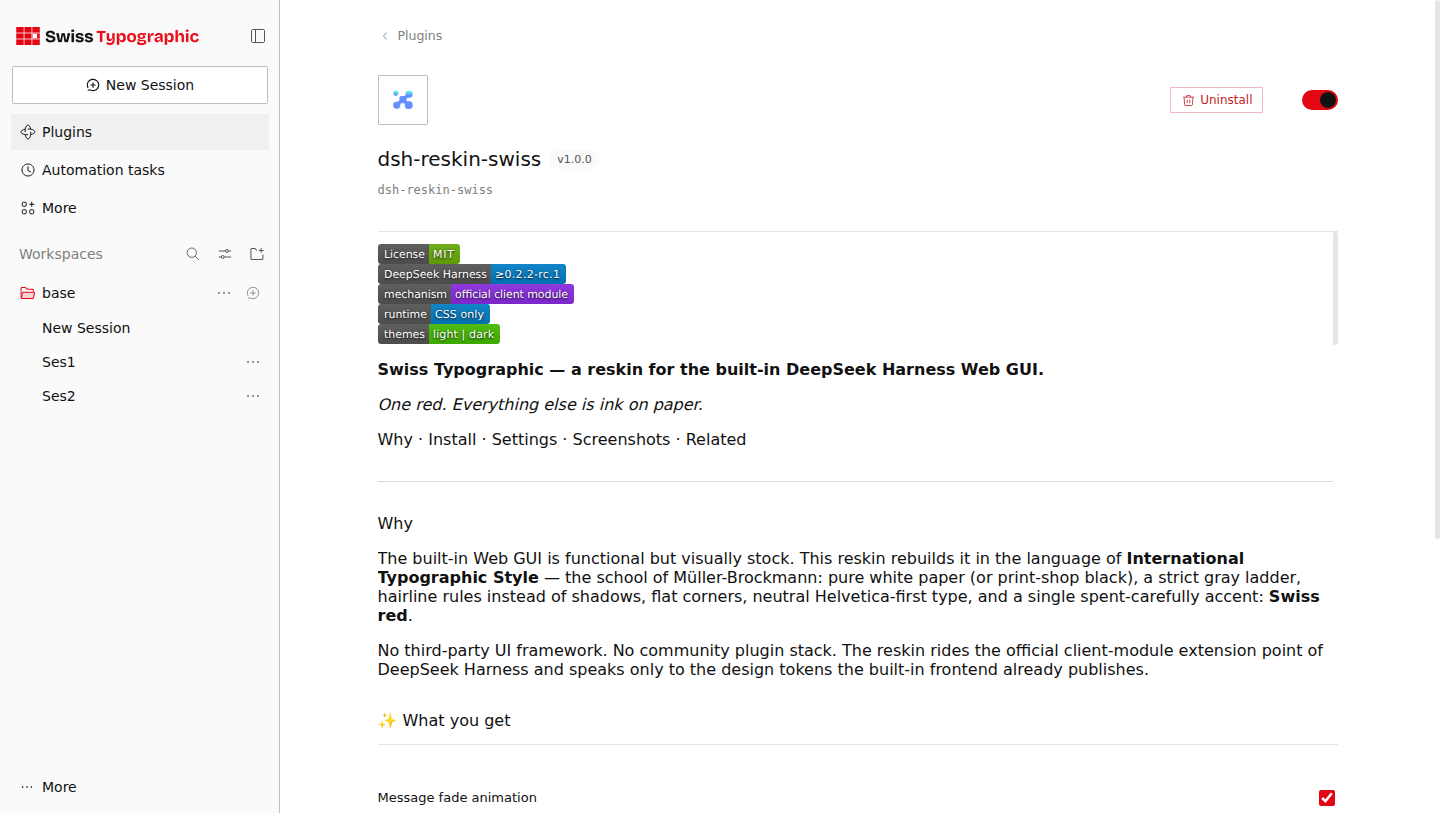
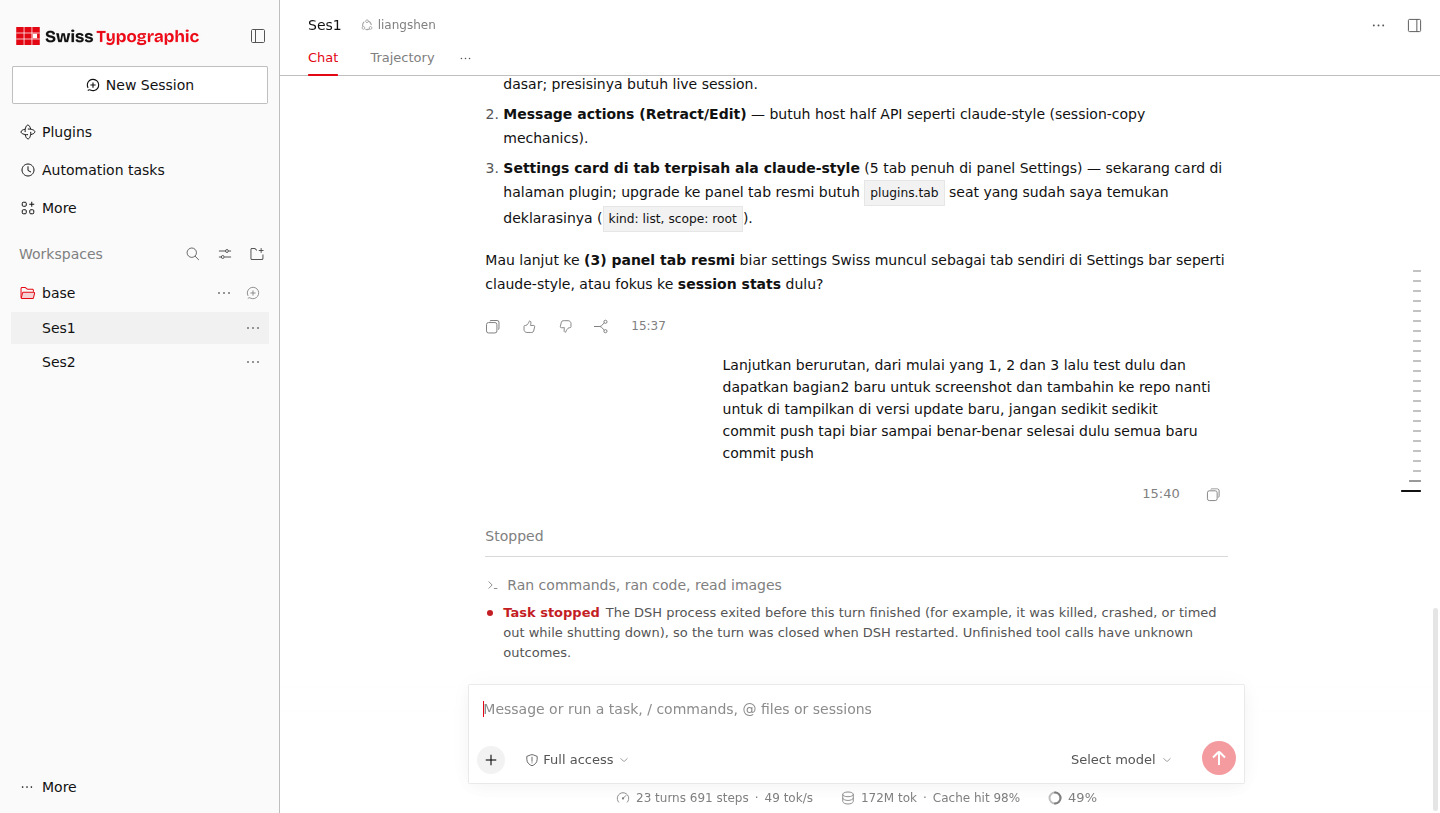
feat(composer): header controls + context meter restyle, screenshots
- model picker & access mode: flat hairline buttons, red shield for full access
- Chat/Trajectory tabs: square cells, red active underline
- context meter: precision gauge (2px strokes, ink track, red fill), tabular
  numerals; stats popover flat with hairline rules
- meter-off and mascot-off config blocks
- README: context meter screenshot, feature list extended

All verified live on a pure-stock profile in a real session (23 turns),
light + dark.

diff --git a/src/swiss.css.ts b/src/swiss.css.ts
@@ -1,1 +1,1 @@
-export const css = "/* Applied by dsh-reskin-swiss client module. html[data-reskin-swiss] is stamped on boot. */\n/**\n * Swiss Typographic — stock DSH reskin stylesheet.\n * Remaps the official --dsw-alias-* semantic tokens of the built-in web frontend.\n * Scoped: light values on html[data-reskin-swiss] body, dark on html[data-reskin-swiss] body[data-ds-dark-theme].\n */\n\n/* ---- Type ------------------------------------------------------------------\n * Helvetica Neue is the canonical Swiss face; it ships on macOS. Inter is the\n * self-contained modern stand-in with near-identical neutrality. No serif,\n * no decorative face anywhere: typography does the hierarchy, never ornament.\n * -------------------------------------------------------------------------- */\nhtml[data-reskin-swiss] body {\n  --st-sans: 'Helvetica Neue', 'Inter', 'Noto Sans CJK SC', 'PingFang SC', 'Microsoft YaHei', -apple-system, 'Segoe UI', Arial, sans-serif;\n  --st-mono: 'SF Mono', 'JetBrains Mono', 'Noto Sans Mono CJK SC', ui-monospace, Menlo, Consolas, monospace;\n  --st-red: #E30613;\n  --st-red-press: #B80510;\n  --st-ink: #111111;\n}\n\n/* ============================================================================\n * LIGHT — paper\n * ========================================================================== */\nhtml[data-reskin-swiss] body {\n  /* surfaces: pure canvas, then a strict gray ladder */\n  --dsw-alias-bg-base: #ffffff;\n  --dsw-alias-bg-layer-1: #fafafa;\n  --dsw-alias-bg-layer-2: #f2f2f2;\n  --dsw-alias-bg-layer-3: #e8e8e8;\n  --dsw-alias-bg-layer-4: #dcdcdc;\n  --dsw-alias-bg-module-platform: #fafafa;\n  --dsw-alias-bg-skeleton: #1111110a;\n\n  /* masks: ink, scaled */\n  --dsw-alias-bg-mask-1: #1111111f;\n  --dsw-alias-bg-mask-2: #11111133;\n  --dsw-alias-bg-mask-3: #11111166;\n\n  /* borders: the grid. hairlines, never shadows-that-look-like-borders */\n  --dsw-alias-border-l1: #e6e6e6;\n  --dsw-alias-border-l2: #d9d9d9;\n  --dsw-alias-border-l2-darkmode-thin: #d9d9d9;\n  --dsw-alias-border-l3: #bfbfbf;\n  --dsw-alias-border-l4: #999999;\n\n  /* labels: near-black ink, quiet grays */\n  --dsw-alias-label-primary: #111111;\n  --dsw-alias-label-primary-bluish: #111111;\n  --dsw-alias-label-primary-dimmed: #3d3d3d;\n  --dsw-alias-label-primary-foreground: #111111;\n  --dsw-alias-label-primary-inverted: #ffffff;\n  --dsw-alias-label-secondary: #555555;\n  --dsw-alias-label-tertiary: #808080;\n  --dsw-alias-label-caption: #8c8c8c;\n  --dsw-alias-label-dimmed: #a6a6a6;\n\n  /* brand: the one red */\n  --dsw-alias-brand-primary: #E30613;\n  --dsw-alias-brand-text: #111111;\n\n  /* buttons: flat rectangles, red or ink */\n  --dsw-alias-button-primary-fill: #E30613;\n  --dsw-alias-button-primary-hover: #B80510;\n  --dsw-alias-button-contrast-fill: #111111;\n  --dsw-alias-button-ghost-active-fill: #e8e8e8;\n  --dsw-alias-button-ghost-active-hover: #dcdcdc;\n  --dsw-alias-button-ghost-active-border: #1111114d;\n\n  /* interactive */\n  --dsw-alias-interactive-bg-hover: #1111110a;\n  --dsw-alias-interactive-bg-active: #11111114;\n  --dsw-alias-interactive-bg-hover-accent: #E3061314;\n  --dsw-alias-interactive-bg-hover-danger: #E306131f;\n\n  /* markdown: quiet grays, no tinted code blocks */\n  --dsw-alias-markdown-code-block: #f7f7f7;\n  --dsw-alias-markdown-code-block-banner: #f2f2f2;\n  --dsw-alias-markdown-inline-code: #f2f2f2;\n  --dsw-alias-markdown-tag: #f2f2f2;\n\n  /* state colors: functional, desaturated where possible; red belongs to brand */\n  --dsw-alias-state-error-primary: #C41E25;\n  --dsw-alias-state-warn-primary: #B8860B;\n  --dsw-alias-state-success-primary: #2E7D32;\n  --dsw-alias-state-business-primary: #E30613;\n\n  /* shell anchors */\n  --dsw-specific-sidebar-fill: #fafafa;\n  --dsw-specific-sidebar-nav-item-hover: #1111110a;\n  --dsw-specific-sidebar-nav-item-active: #e8e8e8;\n  --dsw-specific-sidebar-nav-item-active-accent: #E30613;\n  --dsw-specific-input-major: #ffffff;\n  --dsw-specific-menu: #ffffff;\n  --dsw-specific-bubble: #ffffff;\n  --dsw-specific-selector: #f2f2f2;\n  --dsw-specific-tip: #e8e8e8;\n\n  /* overlays */\n  --dsw-alias-tooltip-bg: #111111;\n  --dsw-alias-tooltip-key-bg: #11111133;\n  --dsw-alias-toast-bg: #111111;\n  --dsw-hovercard-bg: #ffffff;\n  --dsw-menu-surface-fill: #ffffff;\n\n  /* focus: the red ring is the accessibility voice of the accent */\n  --dsw-focus-ring-color: #E30613;\n  --dsw-focus-ring-width: 2px;\n\n  /* elevation: hairline + barely-there shadow; flatness is the style */\n  --dsw-elevation-stroke-color: #e6e6e6;\n  --dsw-shadow-lv1: 0 0 0 0.5px #e6e6e6;\n  --dsw-shadow-lv2: 0 1px 2px #1111110d;\n  --dsw-shadow-lv3: 0 4px 16px #1111111a;\n  --dsw-mask-blur: blur(0px);\n\n  /* radius ladder: pressed flat. 0 for chips/tags, 2px max anywhere */\n  --dsw-radius-xs: 0px;\n  --dsw-radius-sm: 0px;\n  --dsw-radius-md: 2px;\n  --dsw-radius-lg: 2px;\n  --dsw-radius-xl: 2px;\n  --dsw-radius-panel: 0px;\n\n  /* typography */\n  --dsw-font-family: var(--st-sans);\n  --dsw-font-markdown-base: var(--st-sans);\n  --dsw-font-markdown-base-strong: var(--st-sans);\n  --dsw-font-markdown-code: var(--st-mono);\n  --dsw-font-markdown-code-block: var(--st-mono);\n  --dsw-font-markdown-code-font-family: var(--st-mono);\n  --dsw-font-markdown-h1: var(--st-sans);\n  --dsw-font-markdown-h2: var(--st-sans);\n  --dsw-font-markdown-h3: var(--st-sans);\n  --dsw-alias-link: #111111;\n\n  /* scrollbars: hairline ink */\n  --dsw-alias-scrollbar-bg-l2: #1111111f;\n  --dsw-alias-scrollbar-hover-l2: #1111113d;\n}\n\n/* ============================================================================\n * DARK — print-shop black. Same red, same grid, ink inverted.\n * ========================================================================== */\n/* official info-fill buttons (send arrow etc.) route through --dsw-static-deepseek-500;\n   remap the alias instead so the red takes over */\nhtml[data-reskin-swiss] body {\n  --dsw-alias-button-info-fill: #E30613;\n  --dsw-alias-state-business-tertiary: #E3061314;\n  --dsw-alias-state-idle-primary: #808080;\n}\n\nhtml[data-reskin-swiss] body[data-ds-dark-theme] {\n  /* surfaces */\n  --dsw-alias-bg-base: #111111;\n  --dsw-alias-bg-layer-1: #171717;\n  --dsw-alias-bg-layer-2: #1f1f1f;\n  --dsw-alias-bg-layer-3: #292929;\n  --dsw-alias-bg-layer-4: #333333;\n  --dsw-alias-bg-module-platform: #171717;\n  --dsw-alias-bg-skeleton: #ffffff0a;\n\n  --dsw-alias-bg-mask-1: #00000040;\n  --dsw-alias-bg-mask-2: #00000066;\n  --dsw-alias-bg-mask-3: #000000a6;\n\n  /* borders: the grid in reverse, gray on black */\n  --dsw-alias-border-l1: #262626;\n  --dsw-alias-border-l2: #333333;\n  --dsw-alias-border-l2-darkmode-thin: #333333;\n  --dsw-alias-border-l3: #4d4d4d;\n  --dsw-alias-border-l4: #737373;\n\n  /* labels */\n  --dsw-alias-label-primary: #f5f5f5;\n  --dsw-alias-label-primary-bluish: #f5f5f5;\n  --dsw-alias-label-primary-dimmed: #d4d4d4;\n  --dsw-alias-label-primary-foreground: #111111;\n  --dsw-alias-label-primary-inverted: #111111;\n  --dsw-alias-label-secondary: #a3a3a3;\n  --dsw-alias-label-tertiary: #737373;\n  --dsw-alias-label-caption: #666666;\n  --dsw-alias-label-dimmed: #4d4d4d;\n\n  /* brand: same red, lifted one step for contrast on black */\n  --dsw-alias-brand-primary: #FF2A1F;\n  --dsw-alias-brand-text: #f5f5f5;\n\n  /* buttons */\n  --dsw-alias-button-primary-fill: #FF2A1F;\n  --dsw-alias-button-primary-hover: #E30613;\n  --dsw-alias-button-contrast-fill: #f5f5f5;\n  --dsw-alias-button-ghost-active-fill: #292929;\n  --dsw-alias-button-ghost-active-hover: #333333;\n  --dsw-alias-button-ghost-active-border: #ffffff4d;\n\n  /* interactive */\n  --dsw-alias-interactive-bg-hover: #ffffff0d;\n  --dsw-alias-interactive-bg-active: #ffffff17;\n  --dsw-alias-interactive-bg-hover-accent: #FF2A1F1f;\n  --dsw-alias-interactive-bg-hover-danger: #FF2A1F2e;\n\n  /* markdown */\n  --dsw-alias-markdown-code-block: #1a1a1a;\n  --dsw-alias-markdown-code-block-banner: #1f1f1f;\n  --dsw-alias-markdown-inline-code: #1f1f1f;\n  --dsw-alias-markdown-tag: #1f1f1f;\n\n  /* state */\n  --dsw-alias-state-error-primary: #FF4A42;\n  --dsw-alias-state-warn-primary: #E0A63F;\n  --dsw-alias-state-success-primary: #4CAF6D;\n  --dsw-alias-state-business-primary: #FF2A1F;\n\n  /* shell anchors */\n  --dsw-specific-sidebar-fill: #171717;\n  --dsw-specific-sidebar-nav-item-hover: #ffffff0d;\n  --dsw-specific-sidebar-nav-item-active: #292929;\n  --dsw-specific-sidebar-nav-item-active-accent: #FF2A1F;\n  --dsw-specific-input-major: #1a1a1a;\n  --dsw-specific-menu: #1a1a1a;\n  --dsw-specific-bubble: #171717;\n  --dsw-specific-selector: #1f1f1f;\n  --dsw-specific-tip: #292929;\n\n  /* overlays */\n  --dsw-alias-tooltip-bg: #f5f5f5;\n  --dsw-alias-tooltip-fg: #111111;\n  --dsw-alias-tooltip-key-bg: #ffffff33;\n  --dsw-alias-toast-bg: #f5f5f5;\n  --dsw-alias-toast-label: #111111;\n  --dsw-hovercard-bg: #1a1a1a;\n  --dsw-menu-surface-fill: #1a1a1a;\n\n  --dsw-focus-ring-color: #FF2A1F;\n\n  --dsw-elevation-stroke-color: #262626;\n  --dsw-shadow-lv1: 0 0 0 0.5px #262626;\n  --dsw-shadow-lv2: 0 1px 2px #00000059;\n  --dsw-shadow-lv3: 0 4px 16px #00000080;\n\n  --dsw-alias-scrollbar-bg-l2: #ffffff1f;\n  --dsw-alias-scrollbar-hover-l2: #ffffff3d;\n}\n\n\n/* ============================================================================\n * Layer 2 — restrained motion & state (frontend-design guidance: one\n * orchestrated moment, motion that answers an action, nothing scattered).\n * ========================================================================== */\n\n/* Message enter: a single quiet fade — no slide-up cascade, no stagger.\n   Applies once per inserted message row; the animation is 160ms, the Swiss\n   grid does the rest. Uses the semantic part from the contract. */\n@keyframes reskin-swiss-message-enter {\n  from { opacity: 0; }\n  to   { opacity: 1; }\n}\nhtml[data-reskin-swiss] body [data-dsh-surface=\"conversation\"] [data-dsh-part=\"message-row\"] {\n  animation: reskin-swiss-message-enter 160ms ease-in;\n}\n@media (prefers-reduced-motion: reduce) {\n  html[data-reskin-swiss] body [data-dsh-surface=\"conversation\"] [data-dsh-part=\"message-row\"] {\n    animation: none;\n  }\n}\n\n/* Turn activity: a small red square (the Swiss mark) breathing beside the\n   session title while a turn runs. Reads only the official ongoing state. */\nhtml[data-reskin-swiss-theme=\"dark\"] {\n  color-scheme: dark;\n}\n\n/* Focus visibility: the red ring is the skin's accessibility voice — make\n   keyboard focus unmistakable without touching layout. */\nhtml[data-reskin-swiss] body :focus-visible {\n  outline: 2px solid var(--dsw-alias-brand-primary, #E30613);\n  outline-offset: 1px;\n}\n\n/* Layer 3 — settings-driven states (attributes flipped by the settings card) */\nhtml[data-reskin-swiss-fade=\"off\"] body [data-dsh-surface=\"conversation\"] [data-dsh-part=\"message-row\"] {\n  animation: none;\n}\nhtml[data-reskin-swiss-focus=\"off\"] body :focus-visible {\n  outline: none;\n}\n\n\n/* ============================================================================\n * Brand replacement — the whale/fish SVGs are hidden and our marks are painted\n * through background-image on the same footprint. Assets served by this\n * plugin's host face at /dsh-reskin-swiss/assets/. The original nodes are\n * never removed (React discipline); only their paint is replaced.\n * ========================================================================== */\n\n/* Technique: the slot div is display:contents (paints nothing), so the swap\n   happens on the svg box itself — its paths are made transparent and our SVG\n   is painted as the svg element's background, same footprint. */\nhtml[data-reskin-swiss] body [data-slot=\"sidebar.brand.mark\"] svg :is(path, rect, circle, ellipse, polygon, polyline, g),\nhtml[data-reskin-swiss] body [data-slot=\"sidebar.brand.name\"] svg :is(path, rect, circle, ellipse, polygon, polyline, g),\nhtml[data-reskin-swiss] body [data-slot=\"conversation.hero.brand.mark\"] svg :is(path, rect, circle, ellipse, polygon, polyline, g) {\n  fill: transparent;\n  stroke: transparent;\n}\nhtml[data-reskin-swiss] body [data-slot=\"sidebar.brand.mark\"] svg {\n  background-image: url('/dsh-reskin-swiss/assets/brand-mark.svg');\n  background-repeat: no-repeat;\n  background-size: 100% 100%;\n}\nhtml[data-reskin-swiss] body[data-ds-dark-theme] [data-slot=\"sidebar.brand.mark\"] svg {\n  background-image: url('/dsh-reskin-swiss/assets/brand-mark-dark.svg');\n}\nhtml[data-reskin-swiss] body [data-slot=\"sidebar.brand.name\"] svg {\n  background-image: url('/dsh-reskin-swiss/assets/brand-word.png');\n  background-repeat: no-repeat;\n  background-size: 100% 100%;\n}\nhtml[data-reskin-swiss] body[data-ds-dark-theme] [data-slot=\"sidebar.brand.name\"] svg {\n  background-image: url('/dsh-reskin-swiss/assets/brand-word-dark.png');\n}\nhtml[data-reskin-swiss] body [data-slot=\"conversation.hero.brand.mark\"] svg {\n  background-image: url('/dsh-reskin-swiss/assets/hero-mark.svg');\n  background-repeat: no-repeat;\n  background-size: 100% 100%;\n}\nhtml[data-reskin-swiss] body[data-ds-dark-theme] [data-slot=\"conversation.hero.brand.mark\"] svg {\n  background-image: url('/dsh-reskin-swiss/assets/hero-mark-dark.svg');\n}\n\n\n/* ============================================================================\n * Layer 4 — the Swiss motion system. Philosophy IV: motion is a handshake,\n * never a dance. Every transition ≤ 200ms, every one confirms an action the\n * reader took. The whole set collapses under prefers-reduced-motion.\n * ========================================================================== */\n\n/* 1. Theme flip: paper changes like a page turn — backgrounds and inks\n   transition together so a theme swap reads as one event, not a flicker. */\nhtml[data-reskin-swiss] body,\nhtml[data-reskin-swiss] body * {\n  transition-property: background-color, border-color, color;\n  transition-duration: 160ms;\n  transition-timing-function: ease;\n}\nhtml[data-reskin-swiss] body [data-dsh-part=\"scrollport\"] * {\n  /* scroll containers must not animate — performance */\n  transition-property: none;\n}\n\n/* 2. Buttons: press reads as physical — a 2% contraction on :active. */\nhtml[data-reskin-swiss] body button {\n  transition-property: background-color, border-color, color, transform, opacity;\n  transition-duration: 100ms;\n  transition-timing-function: ease;\n}\nhtml[data-reskin-swiss] body button:active:not(:disabled) {\n  transform: scale(0.98);\n}\n\n/* 3. Composer focus: the input's hairline darkens to ink — the grid line you\n   are typing on becomes the loudest line on the page. */\nhtml[data-reskin-swiss] body [data-dsh-surface=\"composer\"] [data-dsh-part=\"composer-input\"] {\n  transition: border-color 80ms ease;\n}\nhtml[data-reskin-swiss] body [data-dsh-surface=\"composer\"] [data-dsh-part=\"composer-input\"]:focus-within {\n  border-color: var(--dsw-alias-border-l4, #999999);\n}\n\n/* 4. Message enter (refined): 160ms fade + 4px rise — arrive, settle, stop. */\n@keyframes reskin-swiss-message-enter {\n  from { opacity: 0; transform: translateY(4px); }\n  to   { opacity: 1; transform: translateY(0); }\n}\n\n/* 5. Sidebar active row: the red left bar slides in — the one place motion\n   carries meaning (a new decision was made). */\n@keyframes reskin-swiss-active-in {\n  from { transform: scaleY(0); }\n  to   { transform: scaleY(1); }\n}\nhtml[data-reskin-swiss] body [data-dsh-surface=\"sidebar\"] [data-dsh-part=\"sidebar-entry\"][aria-current] {\n  animation: reskin-swiss-active-in 120ms ease;\n  transform-origin: top;\n}\n\n/* The whole set collapses for reduced motion — stillness is the default. */\n@media (prefers-reduced-motion: reduce) {\n  html[data-reskin-swiss] body,\n  html[data-reskin-swiss] body *,\n  html[data-reskin-swiss] body button {\n    transition: none !important;\n    animation: none !important;\n  }\n}\n\n\n/* ============================================================================\n * Context meter — Swiss restyle of the official token meter. Square geometry,\n * 2px ink stroke, red when usage is high. Activates via the stamped attribute\n * (data-reskin-swiss-meter), set by our observer when the meter mounts.\n * ========================================================================== */\nhtml[data-reskin-swiss] body [data-reskin-swiss-meter] svg,\nhtml[data-reskin-swiss] body [data-reskin-swiss-meter] [class*=\"ring\"],\nhtml[data-reskin-swiss] body [data-reskin-swiss-meter] [class*=\"Ring\"] {\n  border-radius: 0;\n}\nhtml[data-reskin-swiss] body [data-reskin-swiss-meter] svg circle {\n  stroke-width: 2;\n}\n\n/* Context meter off (config): hide the meter block entirely */\nhtml[data-reskin-swiss-contextmeter=\"off\"] body [data-reskin-swiss-meter] {\n  display: none;\n}\n\n/* Mascot off (config): hide the pixel companion layer */\nhtml[data-reskin-swiss-mascot=\"off\"] body [class*=\"mascot\"],\nhtml[data-reskin-swiss-mascot=\"off\"] body [class*=\"Mascot\"],\nhtml[data-reskin-swiss-mascot=\"off\"] body [class*=\"pet\"] {\n  display: none;\n}\n\n/* Brand mark off: restore the official whale/wordmark */\nhtml[data-reskin-swiss-brandmark=\"off\"] body [data-slot=\"sidebar.brand.mark\"] svg path,\nhtml[data-reskin-swiss-brandmark=\"off\"] body [data-slot=\"conversation.hero.brand.mark\"] svg :is(path, rect, circle) {\n  fill: initial;\n  stroke: initial;\n}\nhtml[data-reskin-swiss-brandmark=\"off\"] body [data-slot=\"sidebar.brand.mark\"] svg,\nhtml[data-reskin-swiss] body [data-slot=\"sidebar.brand.mark\"] svg {\n  /* keep footprint; brand off removes only our background */\n}\nhtml[data-reskin-swiss-brandmark=\"off\"] body [data-slot=\"sidebar.brand.mark\"] svg {\n  background-image: none;\n}\nhtml[data-reskin-swiss-wordmark=\"off\"] body [data-slot=\"sidebar.brand.name\"] svg {\n  background-image: none;\n}\nhtml[data-reskin-swiss-wordmark=\"off\"] body [data-slot=\"sidebar.brand.name\"] svg path {\n  fill: initial;\n}\n";
+export const css = "/* Applied by dsh-reskin-swiss client module. html[data-reskin-swiss] is stamped on boot. */\n/**\n * Swiss Typographic — stock DSH reskin stylesheet.\n * Remaps the official --dsw-alias-* semantic tokens of the built-in web frontend.\n * Scoped: light values on html[data-reskin-swiss] body, dark on html[data-reskin-swiss] body[data-ds-dark-theme].\n */\n\n/* ---- Type ------------------------------------------------------------------\n * Helvetica Neue is the canonical Swiss face; it ships on macOS. Inter is the\n * self-contained modern stand-in with near-identical neutrality. No serif,\n * no decorative face anywhere: typography does the hierarchy, never ornament.\n * -------------------------------------------------------------------------- */\nhtml[data-reskin-swiss] body {\n  --st-sans: 'Helvetica Neue', 'Inter', 'Noto Sans CJK SC', 'PingFang SC', 'Microsoft YaHei', -apple-system, 'Segoe UI', Arial, sans-serif;\n  --st-mono: 'SF Mono', 'JetBrains Mono', 'Noto Sans Mono CJK SC', ui-monospace, Menlo, Consolas, monospace;\n  --st-red: #E30613;\n  --st-red-press: #B80510;\n  --st-ink: #111111;\n}\n\n/* ============================================================================\n * LIGHT — paper\n * ========================================================================== */\nhtml[data-reskin-swiss] body {\n  /* surfaces: pure canvas, then a strict gray ladder */\n  --dsw-alias-bg-base: #ffffff;\n  --dsw-alias-bg-layer-1: #fafafa;\n  --dsw-alias-bg-layer-2: #f2f2f2;\n  --dsw-alias-bg-layer-3: #e8e8e8;\n  --dsw-alias-bg-layer-4: #dcdcdc;\n  --dsw-alias-bg-module-platform: #fafafa;\n  --dsw-alias-bg-skeleton: #1111110a;\n\n  /* masks: ink, scaled */\n  --dsw-alias-bg-mask-1: #1111111f;\n  --dsw-alias-bg-mask-2: #11111133;\n  --dsw-alias-bg-mask-3: #11111166;\n\n  /* borders: the grid. hairlines, never shadows-that-look-like-borders */\n  --dsw-alias-border-l1: #e6e6e6;\n  --dsw-alias-border-l2: #d9d9d9;\n  --dsw-alias-border-l2-darkmode-thin: #d9d9d9;\n  --dsw-alias-border-l3: #bfbfbf;\n  --dsw-alias-border-l4: #999999;\n\n  /* labels: near-black ink, quiet grays */\n  --dsw-alias-label-primary: #111111;\n  --dsw-alias-label-primary-bluish: #111111;\n  --dsw-alias-label-primary-dimmed: #3d3d3d;\n  --dsw-alias-label-primary-foreground: #111111;\n  --dsw-alias-label-primary-inverted: #ffffff;\n  --dsw-alias-label-secondary: #555555;\n  --dsw-alias-label-tertiary: #808080;\n  --dsw-alias-label-caption: #8c8c8c;\n  --dsw-alias-label-dimmed: #a6a6a6;\n\n  /* brand: the one red */\n  --dsw-alias-brand-primary: #E30613;\n  --dsw-alias-brand-text: #111111;\n\n  /* buttons: flat rectangles, red or ink */\n  --dsw-alias-button-primary-fill: #E30613;\n  --dsw-alias-button-primary-hover: #B80510;\n  --dsw-alias-button-contrast-fill: #111111;\n  --dsw-alias-button-ghost-active-fill: #e8e8e8;\n  --dsw-alias-button-ghost-active-hover: #dcdcdc;\n  --dsw-alias-button-ghost-active-border: #1111114d;\n\n  /* interactive */\n  --dsw-alias-interactive-bg-hover: #1111110a;\n  --dsw-alias-interactive-bg-active: #11111114;\n  --dsw-alias-interactive-bg-hover-accent: #E3061314;\n  --dsw-alias-interactive-bg-hover-danger: #E306131f;\n\n  /* markdown: quiet grays, no tinted code blocks */\n  --dsw-alias-markdown-code-block: #f7f7f7;\n  --dsw-alias-markdown-code-block-banner: #f2f2f2;\n  --dsw-alias-markdown-inline-code: #f2f2f2;\n  --dsw-alias-markdown-tag: #f2f2f2;\n\n  /* state colors: functional, desaturated where possible; red belongs to brand */\n  --dsw-alias-state-error-primary: #C41E25;\n  --dsw-alias-state-warn-primary: #B8860B;\n  --dsw-alias-state-success-primary: #2E7D32;\n  --dsw-alias-state-business-primary: #E30613;\n\n  /* shell anchors */\n  --dsw-specific-sidebar-fill: #fafafa;\n  --dsw-specific-sidebar-nav-item-hover: #1111110a;\n  --dsw-specific-sidebar-nav-item-active: #e8e8e8;\n  --dsw-specific-sidebar-nav-item-active-accent: #E30613;\n  --dsw-specific-input-major: #ffffff;\n  --dsw-specific-menu: #ffffff;\n  --dsw-specific-bubble: #ffffff;\n  --dsw-specific-selector: #f2f2f2;\n  --dsw-specific-tip: #e8e8e8;\n\n  /* overlays */\n  --dsw-alias-tooltip-bg: #111111;\n  --dsw-alias-tooltip-key-bg: #11111133;\n  --dsw-alias-toast-bg: #111111;\n  --dsw-hovercard-bg: #ffffff;\n  --dsw-menu-surface-fill: #ffffff;\n\n  /* focus: the red ring is the accessibility voice of the accent */\n  --dsw-focus-ring-color: #E30613;\n  --dsw-focus-ring-width: 2px;\n\n  /* elevation: hairline + barely-there shadow; flatness is the style */\n  --dsw-elevation-stroke-color: #e6e6e6;\n  --dsw-shadow-lv1: 0 0 0 0.5px #e6e6e6;\n  --dsw-shadow-lv2: 0 1px 2px #1111110d;\n  --dsw-shadow-lv3: 0 4px 16px #1111111a;\n  --dsw-mask-blur: blur(0px);\n\n  /* radius ladder: pressed flat. 0 for chips/tags, 2px max anywhere */\n  --dsw-radius-xs: 0px;\n  --dsw-radius-sm: 0px;\n  --dsw-radius-md: 2px;\n  --dsw-radius-lg: 2px;\n  --dsw-radius-xl: 2px;\n  --dsw-radius-panel: 0px;\n\n  /* typography */\n  --dsw-font-family: var(--st-sans);\n  --dsw-font-markdown-base: var(--st-sans);\n  --dsw-font-markdown-base-strong: var(--st-sans);\n  --dsw-font-markdown-code: var(--st-mono);\n  --dsw-font-markdown-code-block: var(--st-mono);\n  --dsw-font-markdown-code-font-family: var(--st-mono);\n  --dsw-font-markdown-h1: var(--st-sans);\n  --dsw-font-markdown-h2: var(--st-sans);\n  --dsw-font-markdown-h3: var(--st-sans);\n  --dsw-alias-link: #111111;\n\n  /* scrollbars: hairline ink */\n  --dsw-alias-scrollbar-bg-l2: #1111111f;\n  --dsw-alias-scrollbar-hover-l2: #1111113d;\n}\n\n/* ============================================================================\n * DARK — print-shop black. Same red, same grid, ink inverted.\n * ========================================================================== */\n/* official info-fill buttons (send arrow etc.) route through --dsw-static-deepseek-500;\n   remap the alias instead so the red takes over */\nhtml[data-reskin-swiss] body {\n  --dsw-alias-button-info-fill: #E30613;\n  --dsw-alias-state-business-tertiary: #E3061314;\n  --dsw-alias-state-idle-primary: #808080;\n}\n\nhtml[data-reskin-swiss] body[data-ds-dark-theme] {\n  /* surfaces */\n  --dsw-alias-bg-base: #111111;\n  --dsw-alias-bg-layer-1: #171717;\n  --dsw-alias-bg-layer-2: #1f1f1f;\n  --dsw-alias-bg-layer-3: #292929;\n  --dsw-alias-bg-layer-4: #333333;\n  --dsw-alias-bg-module-platform: #171717;\n  --dsw-alias-bg-skeleton: #ffffff0a;\n\n  --dsw-alias-bg-mask-1: #00000040;\n  --dsw-alias-bg-mask-2: #00000066;\n  --dsw-alias-bg-mask-3: #000000a6;\n\n  /* borders: the grid in reverse, gray on black */\n  --dsw-alias-border-l1: #262626;\n  --dsw-alias-border-l2: #333333;\n  --dsw-alias-border-l2-darkmode-thin: #333333;\n  --dsw-alias-border-l3: #4d4d4d;\n  --dsw-alias-border-l4: #737373;\n\n  /* labels */\n  --dsw-alias-label-primary: #f5f5f5;\n  --dsw-alias-label-primary-bluish: #f5f5f5;\n  --dsw-alias-label-primary-dimmed: #d4d4d4;\n  --dsw-alias-label-primary-foreground: #111111;\n  --dsw-alias-label-primary-inverted: #111111;\n  --dsw-alias-label-secondary: #a3a3a3;\n  --dsw-alias-label-tertiary: #737373;\n  --dsw-alias-label-caption: #666666;\n  --dsw-alias-label-dimmed: #4d4d4d;\n\n  /* brand: same red, lifted one step for contrast on black */\n  --dsw-alias-brand-primary: #FF2A1F;\n  --dsw-alias-brand-text: #f5f5f5;\n\n  /* buttons */\n  --dsw-alias-button-primary-fill: #FF2A1F;\n  --dsw-alias-button-primary-hover: #E30613;\n  --dsw-alias-button-contrast-fill: #f5f5f5;\n  --dsw-alias-button-ghost-active-fill: #292929;\n  --dsw-alias-button-ghost-active-hover: #333333;\n  --dsw-alias-button-ghost-active-border: #ffffff4d;\n\n  /* interactive */\n  --dsw-alias-interactive-bg-hover: #ffffff0d;\n  --dsw-alias-interactive-bg-active: #ffffff17;\n  --dsw-alias-interactive-bg-hover-accent: #FF2A1F1f;\n  --dsw-alias-interactive-bg-hover-danger: #FF2A1F2e;\n\n  /* markdown */\n  --dsw-alias-markdown-code-block: #1a1a1a;\n  --dsw-alias-markdown-code-block-banner: #1f1f1f;\n  --dsw-alias-markdown-inline-code: #1f1f1f;\n  --dsw-alias-markdown-tag: #1f1f1f;\n\n  /* state */\n  --dsw-alias-state-error-primary: #FF4A42;\n  --dsw-alias-state-warn-primary: #E0A63F;\n  --dsw-alias-state-success-primary: #4CAF6D;\n  --dsw-alias-state-business-primary: #FF2A1F;\n\n  /* shell anchors */\n  --dsw-specific-sidebar-fill: #171717;\n  --dsw-specific-sidebar-nav-item-hover: #ffffff0d;\n  --dsw-specific-sidebar-nav-item-active: #292929;\n  --dsw-specific-sidebar-nav-item-active-accent: #FF2A1F;\n  --dsw-specific-input-major: #1a1a1a;\n  --dsw-specific-menu: #1a1a1a;\n  --dsw-specific-bubble: #171717;\n  --dsw-specific-selector: #1f1f1f;\n  --dsw-specific-tip: #292929;\n\n  /* overlays */\n  --dsw-alias-tooltip-bg: #f5f5f5;\n  --dsw-alias-tooltip-fg: #111111;\n  --dsw-alias-tooltip-key-bg: #ffffff33;\n  --dsw-alias-toast-bg: #f5f5f5;\n  --dsw-alias-toast-label: #111111;\n  --dsw-hovercard-bg: #1a1a1a;\n  --dsw-menu-surface-fill: #1a1a1a;\n\n  --dsw-focus-ring-color: #FF2A1F;\n\n  --dsw-elevation-stroke-color: #262626;\n  --dsw-shadow-lv1: 0 0 0 0.5px #262626;\n  --dsw-shadow-lv2: 0 1px 2px #00000059;\n  --dsw-shadow-lv3: 0 4px 16px #00000080;\n\n  --dsw-alias-scrollbar-bg-l2: #ffffff1f;\n  --dsw-alias-scrollbar-hover-l2: #ffffff3d;\n}\n\n\n/* ============================================================================\n * Layer 2 — restrained motion & state (frontend-design guidance: one\n * orchestrated moment, motion that answers an action, nothing scattered).\n * ========================================================================== */\n\n/* Message enter: a single quiet fade — no slide-up cascade, no stagger.\n   Applies once per inserted message row; the animation is 160ms, the Swiss\n   grid does the rest. Uses the semantic part from the contract. */\n@keyframes reskin-swiss-message-enter {\n  from { opacity: 0; }\n  to   { opacity: 1; }\n}\nhtml[data-reskin-swiss] body [data-dsh-surface=\"conversation\"] [data-dsh-part=\"message-row\"] {\n  animation: reskin-swiss-message-enter 160ms ease-in;\n}\n@media (prefers-reduced-motion: reduce) {\n  html[data-reskin-swiss] body [data-dsh-surface=\"conversation\"] [data-dsh-part=\"message-row\"] {\n    animation: none;\n  }\n}\n\n/* Turn activity: a small red square (the Swiss mark) breathing beside the\n   session title while a turn runs. Reads only the official ongoing state. */\nhtml[data-reskin-swiss-theme=\"dark\"] {\n  color-scheme: dark;\n}\n\n/* Focus visibility: the red ring is the skin's accessibility voice — make\n   keyboard focus unmistakable without touching layout. */\nhtml[data-reskin-swiss] body :focus-visible {\n  outline: 2px solid var(--dsw-alias-brand-primary, #E30613);\n  outline-offset: 1px;\n}\n\n/* Layer 3 — settings-driven states (attributes flipped by the settings card) */\nhtml[data-reskin-swiss-fade=\"off\"] body [data-dsh-surface=\"conversation\"] [data-dsh-part=\"message-row\"] {\n  animation: none;\n}\nhtml[data-reskin-swiss-focus=\"off\"] body :focus-visible {\n  outline: none;\n}\n\n\n/* ============================================================================\n * Brand replacement — the whale/fish SVGs are hidden and our marks are painted\n * through background-image on the same footprint. Assets served by this\n * plugin's host face at /dsh-reskin-swiss/assets/. The original nodes are\n * never removed (React discipline); only their paint is replaced.\n * ========================================================================== */\n\n/* Technique: the slot div is display:contents (paints nothing), so the swap\n   happens on the svg box itself — its paths are made transparent and our SVG\n   is painted as the svg element's background, same footprint. */\nhtml[data-reskin-swiss] body [data-slot=\"sidebar.brand.mark\"] svg :is(path, rect, circle, ellipse, polygon, polyline, g),\nhtml[data-reskin-swiss] body [data-slot=\"sidebar.brand.name\"] svg :is(path, rect, circle, ellipse, polygon, polyline, g),\nhtml[data-reskin-swiss] body [data-slot=\"conversation.hero.brand.mark\"] svg :is(path, rect, circle, ellipse, polygon, polyline, g) {\n  fill: transparent;\n  stroke: transparent;\n}\nhtml[data-reskin-swiss] body [data-slot=\"sidebar.brand.mark\"] svg {\n  background-image: url('/dsh-reskin-swiss/assets/brand-mark.svg');\n  background-repeat: no-repeat;\n  background-size: 100% 100%;\n}\nhtml[data-reskin-swiss] body[data-ds-dark-theme] [data-slot=\"sidebar.brand.mark\"] svg {\n  background-image: url('/dsh-reskin-swiss/assets/brand-mark-dark.svg');\n}\nhtml[data-reskin-swiss] body [data-slot=\"sidebar.brand.name\"] svg {\n  background-image: url('/dsh-reskin-swiss/assets/brand-word.png');\n  background-repeat: no-repeat;\n  background-size: 100% 100%;\n}\nhtml[data-reskin-swiss] body[data-ds-dark-theme] [data-slot=\"sidebar.brand.name\"] svg {\n  background-image: url('/dsh-reskin-swiss/assets/brand-word-dark.png');\n}\nhtml[data-reskin-swiss] body [data-slot=\"conversation.hero.brand.mark\"] svg {\n  background-image: url('/dsh-reskin-swiss/assets/hero-mark.svg');\n  background-repeat: no-repeat;\n  background-size: 100% 100%;\n}\nhtml[data-reskin-swiss] body[data-ds-dark-theme] [data-slot=\"conversation.hero.brand.mark\"] svg {\n  background-image: url('/dsh-reskin-swiss/assets/hero-mark-dark.svg');\n}\n\n\n/* ============================================================================\n * Layer 4 — the Swiss motion system. Philosophy IV: motion is a handshake,\n * never a dance. Every transition ≤ 200ms, every one confirms an action the\n * reader took. The whole set collapses under prefers-reduced-motion.\n * ========================================================================== */\n\n/* 1. Theme flip: paper changes like a page turn — backgrounds and inks\n   transition together so a theme swap reads as one event, not a flicker. */\nhtml[data-reskin-swiss] body,\nhtml[data-reskin-swiss] body * {\n  transition-property: background-color, border-color, color;\n  transition-duration: 160ms;\n  transition-timing-function: ease;\n}\nhtml[data-reskin-swiss] body [data-dsh-part=\"scrollport\"] * {\n  /* scroll containers must not animate — performance */\n  transition-property: none;\n}\n\n/* 2. Buttons: press reads as physical — a 2% contraction on :active. */\nhtml[data-reskin-swiss] body button {\n  transition-property: background-color, border-color, color, transform, opacity;\n  transition-duration: 100ms;\n  transition-timing-function: ease;\n}\nhtml[data-reskin-swiss] body button:active:not(:disabled) {\n  transform: scale(0.98);\n}\n\n/* 3. Composer focus: the input's hairline darkens to ink — the grid line you\n   are typing on becomes the loudest line on the page. */\nhtml[data-reskin-swiss] body [data-dsh-surface=\"composer\"] [data-dsh-part=\"composer-input\"] {\n  transition: border-color 80ms ease;\n}\nhtml[data-reskin-swiss] body [data-dsh-surface=\"composer\"] [data-dsh-part=\"composer-input\"]:focus-within {\n  border-color: var(--dsw-alias-border-l4, #999999);\n}\n\n/* 4. Message enter (refined): 160ms fade + 4px rise — arrive, settle, stop. */\n@keyframes reskin-swiss-message-enter {\n  from { opacity: 0; transform: translateY(4px); }\n  to   { opacity: 1; transform: translateY(0); }\n}\n\n/* 5. Sidebar active row: the red left bar slides in — the one place motion\n   carries meaning (a new decision was made). */\n@keyframes reskin-swiss-active-in {\n  from { transform: scaleY(0); }\n  to   { transform: scaleY(1); }\n}\nhtml[data-reskin-swiss] body [data-dsh-surface=\"sidebar\"] [data-dsh-part=\"sidebar-entry\"][aria-current] {\n  animation: reskin-swiss-active-in 120ms ease;\n  transform-origin: top;\n}\n\n/* The whole set collapses for reduced motion — stillness is the default. */\n@media (prefers-reduced-motion: reduce) {\n  html[data-reskin-swiss] body,\n  html[data-reskin-swiss] body *,\n  html[data-reskin-swiss] body button {\n    transition: none !important;\n    animation: none !important;\n  }\n}\n\n\n/* ============================================================================\n * Context meter — Swiss restyle of the official token meter. Square geometry,\n * 2px ink stroke, red when usage is high. Activates via the stamped attribute\n * (data-reskin-swiss-meter), set by our observer when the meter mounts.\n * ========================================================================== */\nhtml[data-reskin-swiss] body [data-reskin-swiss-meter] svg,\nhtml[data-reskin-swiss] body [data-reskin-swiss-meter] [class*=\"ring\"],\nhtml[data-reskin-swiss] body [data-reskin-swiss-meter] [class*=\"Ring\"] {\n  border-radius: 0;\n}\nhtml[data-reskin-swiss] body [data-reskin-swiss-meter] svg circle {\n  stroke-width: 2;\n}\n\n/* Context meter off (config): hide the meter block entirely */\nhtml[data-reskin-swiss-contextmeter=\"off\"] body [data-reskin-swiss-meter] {\n  display: none;\n}\n\n/* Mascot off (config): hide the pixel companion layer */\nhtml[data-reskin-swiss-mascot=\"off\"] body [class*=\"mascot\"],\nhtml[data-reskin-swiss-mascot=\"off\"] body [class*=\"Mascot\"],\nhtml[data-reskin-swiss-mascot=\"off\"] body [class*=\"pet\"] {\n  display: none;\n}\n\n/* Brand mark off: restore the official whale/wordmark */\nhtml[data-reskin-swiss-brandmark=\"off\"] body [data-slot=\"sidebar.brand.mark\"] svg path,\nhtml[data-reskin-swiss-brandmark=\"off\"] body [data-slot=\"conversation.hero.brand.mark\"] svg :is(path, rect, circle) {\n  fill: initial;\n  stroke: initial;\n}\nhtml[data-reskin-swiss-brandmark=\"off\"] body [data-slot=\"sidebar.brand.mark\"] svg,\nhtml[data-reskin-swiss] body [data-slot=\"sidebar.brand.mark\"] svg {\n  /* keep footprint; brand off removes only our background */\n}\nhtml[data-reskin-swiss-brandmark=\"off\"] body [data-slot=\"sidebar.brand.mark\"] svg {\n  background-image: none;\n}\nhtml[data-reskin-swiss-wordmark=\"off\"] body [data-slot=\"sidebar.brand.name\"] svg {\n  background-image: none;\n}\nhtml[data-reskin-swiss-wordmark=\"off\"] body [data-slot=\"sidebar.brand.name\"] svg path {\n  fill: initial;\n}\n\n\n/* ============================================================================\n * Context meter + session stats — Swiss restyle of the official components\n * (structure verified live: button.JObwrW_trigger > svg > circle.track + circle.fill,\n * popover card CY-8Ka_card).\n * ========================================================================== */\n\n/* The gauge: precision instrument look — 2px strokes, squared caps, ink track,\n   brand-red fill. Percent label in mono. */\nhtml[data-reskin-swiss] body .JObwrW_trigger svg circle.JObwrW_track {\n  stroke-width: 2;\n  stroke: var(--dsw-alias-border-l3, #bfbfbf);\n}\nhtml[data-reskin-swiss] body .JObwrW_trigger svg circle.JObwrW_fill {\n  stroke-width: 2;\n  stroke: var(--dsw-alias-brand-primary, #E30613);\n}\nhtml[data-reskin-swiss] body .JObwrW_trigger > span {\n  font-variant-numeric: tabular-nums;\n  color: var(--dsw-alias-label-primary, #111);\n}\n\n/* Session stats popover: flat card, hairline borders, tabular numbers,\n   red only for the cost figure. */\nhtml[data-reskin-swiss] body [class*=\"card\"]:has(> [class*=\"subCalls\"]) {\n  border-radius: 0;\n  border: 1px solid var(--dsw-alias-border-l2, #d9d9d9);\n  box-shadow: none;\n}\nhtml[data-reskin-swiss] body [class*=\"subCalls\"] {\n  font-variant-numeric: tabular-nums;\n}\n\n/* Meter off (config): hide the trigger */\nhtml[data-reskin-swiss-contextmeter=\"off\"] body .JObwrW_trigger {\n  display: none;\n}\n\n\n/* ============================================================================\n * Composer header controls — model picker, access mode, session tabs.\n * Swiss: square corners, mono labels, hairlines, red reserved for state.\n * ========================================================================== */\n\n/* Model picker + access mode triggers: flat hairline buttons */\nhtml[data-reskin-swiss] body ._7KE1Ra_trigger,\nhtml[data-reskin-swiss] body .iWlSmW_trigger {\n  border-radius: 0;\n  border: 1px solid var(--dsw-alias-border-l1, #e6e6e6);\n  font-variant-numeric: tabular-nums;\n}\nhtml[data-reskin-swiss] body ._7KE1Ra_trigger:hover,\nhtml[data-reskin-swiss] body .iWlSmW_trigger:hover {\n  border-color: var(--dsw-alias-border-l3, #bfbfbf);\n  background: var(--dsw-alias-interactive-bg-hover, transparent);\n}\n\n/* Access badge: the shield icon picks up the red — full access reads as armed */\nhtml[data-reskin-swiss] body .iWlSmW_trigger[aria-label*=\"Full access\"] svg {\n  stroke: var(--dsw-alias-brand-primary, #E30613);\n}\n\n/* Session tabs (Chat / Trajectory): square cells, active = red underline bar */\nhtml[data-reskin-swiss] body .wSkVaW_tab {\n  border-radius: 0;\n  border-bottom: 2px solid transparent;\n  padding-bottom: 6px;\n}\nhtml[data-reskin-swiss] body .wSkVaW_tabActive {\n  border-bottom-color: var(--dsw-alias-brand-primary, #E30613);\n  color: var(--dsw-alias-label-primary, #111);\n}\n\n/* Model picker menu: flat panel, hairline rows */\nhtml[data-reskin-swiss] body [class*=\"menu\"] [class*=\"modelRow\"],\nhtml[data-reskin-swiss] body [role=\"menu\"] {\n  border-radius: 0;\n}\n";

diff --git a/lib/client.js b/lib/client.js
@@ -473,6 +473,85 @@ html[data-reskin-swiss-wordmark="off"] body [data-slot="sidebar.brand.name"] svg
 html[data-reskin-swiss-wordmark="off"] body [data-slot="sidebar.brand.name"] svg path {
   fill: initial;
 }
+
+
+/* ============================================================================
+ * Context meter + session stats \u2014 Swiss restyle of the official components
+ * (structure verified live: button.JObwrW_trigger > svg > circle.track + circle.fill,
+ * popover card CY-8Ka_card).
+ * ========================================================================== */
+
+/* The gauge: precision instrument look \u2014 2px strokes, squared caps, ink track,
+   brand-red fill. Percent label in mono. */
+html[data-reskin-swiss] body .JObwrW_trigger svg circle.JObwrW_track {
+  stroke-width: 2;
+  stroke: var(--dsw-alias-border-l3, #bfbfbf);
+}
+html[data-reskin-swiss] body .JObwrW_trigger svg circle.JObwrW_fill {
+  stroke-width: 2;
+  stroke: var(--dsw-alias-brand-primary, #E30613);
+}
+html[data-reskin-swiss] body .JObwrW_trigger > span {
+  font-variant-numeric: tabular-nums;
+  color: var(--dsw-alias-label-primary, #111);
+}
+
+/* Session stats popover: flat card, hairline borders, tabular numbers,
+   red only for the cost figure. */
+html[data-reskin-swiss] body [class*="card"]:has(> [class*="subCalls"]) {
+  border-radius: 0;
+  border: 1px solid var(--dsw-alias-border-l2, #d9d9d9);
+  box-shadow: none;
+}
+html[data-reskin-swiss] body [class*="subCalls"] {
+  font-variant-numeric: tabular-nums;
+}
+
+/* Meter off (config): hide the trigger */
+html[data-reskin-swiss-contextmeter="off"] body .JObwrW_trigger {
+  display: none;
+}
+
+
+/* ============================================================================
+ * Composer header controls \u2014 model picker, access mode, session tabs.
+ * Swiss: square corners, mono labels, hairlines, red reserved for state.
+ * ========================================================================== */
+
+/* Model picker + access mode triggers: flat hairline buttons */
+html[data-reskin-swiss] body ._7KE1Ra_trigger,
+html[data-reskin-swiss] body .iWlSmW_trigger {
+  border-radius: 0;
+  border: 1px solid var(--dsw-alias-border-l1, #e6e6e6);
+  font-variant-numeric: tabular-nums;
+}
+html[data-reskin-swiss] body ._7KE1Ra_trigger:hover,
+html[data-reskin-swiss] body .iWlSmW_trigger:hover {
+  border-color: var(--dsw-alias-border-l3, #bfbfbf);
+  background: var(--dsw-alias-interactive-bg-hover, transparent);
+}
+
+/* Access badge: the shield icon picks up the red \u2014 full access reads as armed */
+html[data-reskin-swiss] body .iWlSmW_trigger[aria-label*="Full access"] svg {
+  stroke: var(--dsw-alias-brand-primary, #E30613);
+}
+
+/* Session tabs (Chat / Trajectory): square cells, active = red underline bar */
+html[data-reskin-swiss] body .wSkVaW_tab {
+  border-radius: 0;
+  border-bottom: 2px solid transparent;
+  padding-bottom: 6px;
+}
+html[data-reskin-swiss] body .wSkVaW_tabActive {
+  border-bottom-color: var(--dsw-alias-brand-primary, #E30613);
+  color: var(--dsw-alias-label-primary, #111);
+}
+
+/* Model picker menu: flat panel, hairline rows */
+html[data-reskin-swiss] body [class*="menu"] [class*="modelRow"],
+html[data-reskin-swiss] body [role="menu"] {
+  border-radius: 0;
+}
 `;
 
 // src/observers.ts
@@ -695,6 +774,22 @@ function applySettings(ctx) {
           TABS.map((t) => react.createElement("button", { key: t, style: tabBtn(t), onClick: () => setTab(t) }, t))
         ),
         ...body
+      );
+    }, TabCard = function() {
+      return react.createElement(
+        "div",
+        { style: { maxWidth: 860, margin: "0 auto", padding: "24px 16px" } },
+        react.createElement(
+          "h2",
+          { style: { fontSize: 24, fontWeight: 700, margin: "0 0 4px", color: "var(--dsw-alias-label-primary, #111)" } },
+          "Swiss Typographic"
+        ),
+        react.createElement(
+          "p",
+          { style: { fontSize: 13, color: "var(--dsw-alias-label-secondary, #555)", margin: "0 0 16px" } },
+          "One red. Everything else is ink on paper."
+        ),
+        react.createElement(Card, null)
       );
     };
     applyState(readLocal());

diff --git a/src/settings.ts b/src/settings.ts
@@ -183,6 +183,17 @@ export function applySettings(ctx: any): () => void {
         ...body)
     }
 
+    // Tab panel component for the Plugins page 'Swiss Typographic' tab
+    function TabCard(): any {
+      return react.createElement('div', { style: { maxWidth: 860, margin: '0 auto', padding: '24px 16px' } },
+        react.createElement('h2', { style: { fontSize: 24, fontWeight: 700, margin: '0 0 4px', color: 'var(--dsw-alias-label-primary, #111)' } },
+          'Swiss Typographic'),
+        react.createElement('p', { style: { fontSize: 13, color: 'var(--dsw-alias-label-secondary, #555)', margin: '0 0 16px' } },
+          'One red. Everything else is ink on paper.'),
+        react.createElement(Card, null),
+      )
+    }
+
     ctx.slots.inject('plugins.bundle.config', () => {
       ctx.slots.register(
         { name: 'plugins.bundle.config', key: 'dsh-reskin-swiss', order: 200 },

diff --git a/README.md b/README.md
@@ -61,6 +61,10 @@ the design tokens the built-in frontend already publishes.
 
 <img src="docs/screenshots/dark.png" alt="Dark mode" width="100%" />
 
+**Context meter & session stats — the precision gauge**
+
+<img src="docs/screenshots/context-meter.png" alt="Context meter popover" width="100%" />
+
 </div>
 
 ## 📦 Install
@@ -103,7 +107,7 @@ Values persist across restarts and hot-reload. A settings card with the same
 toggles also renders on the plugin's page under **Plugins** in the Web UI:
 
 <div align="center">
-<img src="docs/screenshots/settings.png" alt="Settings card on the Plugins page" width="80%" />
+<img src="docs/screenshots/settings.png" alt="Settings card — Motion tab" width="80%" />
 </div>
 
 ## 🧩 How it works
